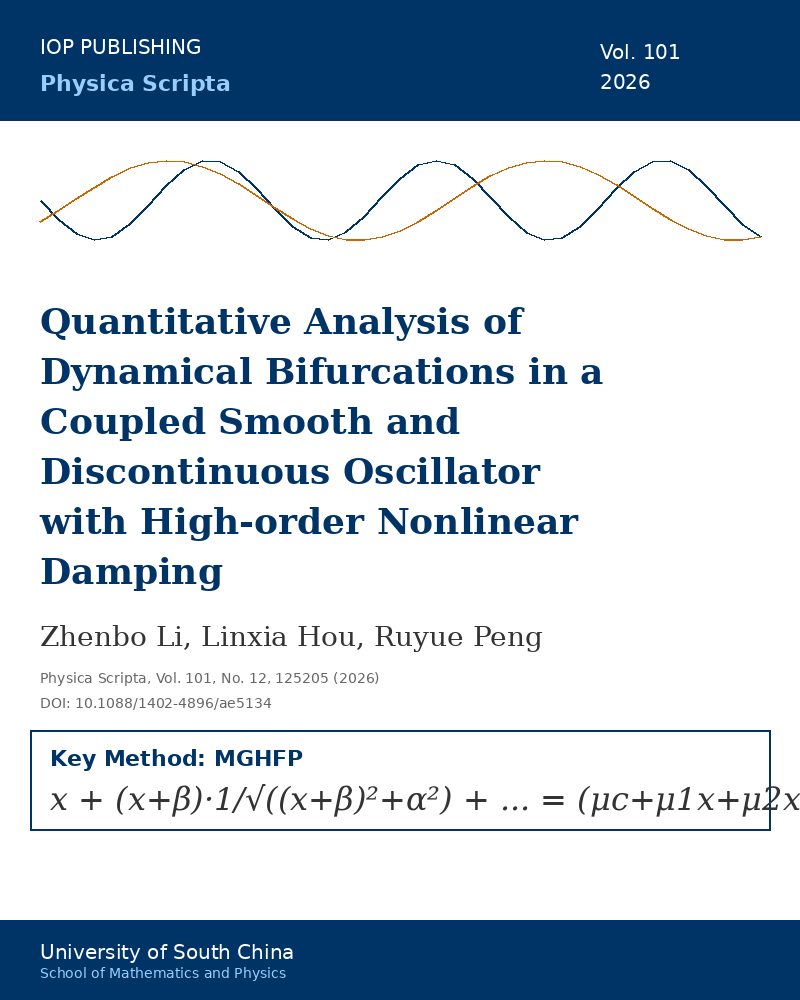
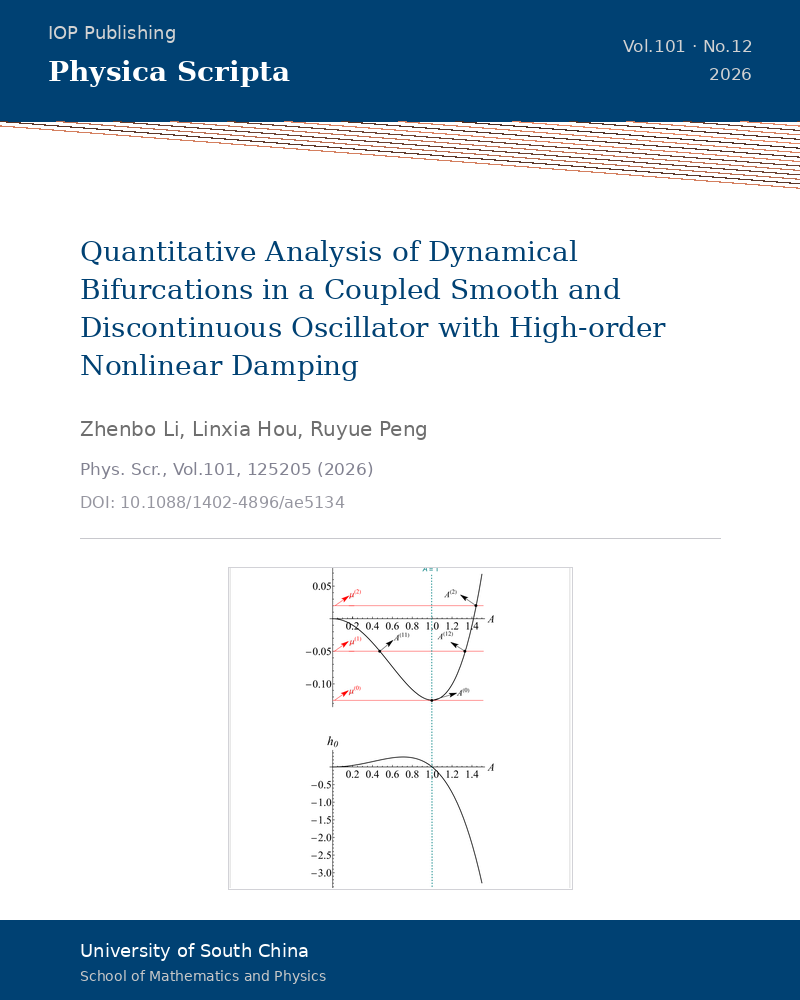
更新前四篇论文封面（gen_front4.py）

diff --git a/gen_front4.py b/gen_front4.py
@@ -1,0 +1,218 @@
+"""
+前四篇封面 v1: 2026/2025/2024/2024 四篇论文封面，基于 gen_back4.py 的 make() 函数
+"""
+from PIL import Image, ImageDraw, ImageFont
+import random, os
+
+W, H = 800, 1000; M = 48; WHITE = (255,255,255)
+OUT = "/sessions/kind-intelligent-fermat/mnt/outputs/front4-covers"
+STRIPE_H = 74
+
+Fn=lambda s,n,**kw:ImageFont.truetype(s,n,**kw)
+F_PUB=Fn("/usr/share/fonts/truetype/dejavu/DejaVuSans.ttf",18)
+F_JRN=Fn("/usr/share/fonts/truetype/dejavu/DejaVuSerif-Bold.ttf",28)
+F_JRN_S=Fn("/usr/share/fonts/truetype/dejavu/DejaVuSerif-Bold.ttf",22)
+F_TITLE=Fn("/usr/share/fonts/truetype/dejavu/DejaVuSerif.ttf",28)
+F_AUTH=Fn("/usr/share/fonts/truetype/dejavu/DejaVuSans.ttf",20)
+F_INFO=Fn("/usr/share/fonts/truetype/dejavu/DejaVuSans.ttf",17)
+F_DOI=Fn("/usr/share/fonts/truetype/dejavu/DejaVuSans.ttf",16)
+F_BOT=Fn("/usr/share/fonts/truetype/dejavu/DejaVuSans.ttf",18)
+F_BOT2=Fn("/usr/share/fonts/truetype/dejavu/DejaVuSans.ttf",14)
+
+ZC="/usr/share/fonts/opentype/noto/NotoSansCJK-Regular.ttc"
+FC_PUB=Fn(ZC,18,index=2); FC_JRN=Fn(ZC,28,index=2); FC_JRN_S=Fn(ZC,22,index=2)
+FC_TITLE=Fn(ZC,28,index=2); FC_AUTH=Fn(ZC,20,index=2); FC_INFO=Fn(ZC,17,index=2)
+FC_DOI=Fn(ZC,16,index=2); FC_BOT=Fn(ZC,18,index=2); FC_BOT2=Fn(ZC,14,index=2)
+
+def tw(d,t,f):
+    try: return int(d.textlength(t,font=f))
+    except: return d.textsize(t,font=f)[0]
+def lt(d,t,x,y,f,c): d.text((x,y),t,font=f,fill=c)
+def rt(d,t,xr,y,f,c):
+    w=tw(d,t,f); d.text((xr-w,y),t,font=f,fill=c)
+
+def pick_font(d,full,abbr,big,sm,max_w):
+    if tw(d,full,big)<=max_w: return full,big
+    if tw(d,abbr,big)<=max_w: return abbr,big
+    return abbr,sm
+
+def wrap(d,t,f,mw):
+    words=t.split(); lines,cur=[],""
+    for w in words:
+        test=cur+(" " if cur else "")+w
+        if tw(d,test,f)<=mw: cur=test
+        else:
+            if cur: lines.append(cur); cur=w
+    if cur: lines.append(cur)
+    return lines or [t]
+
+def auto_crop(img):
+    """裁掉图片四周的白边"""
+    w,h=img.size
+    top,bottom,left,right=0,h-1,0,w-1
+    for y in range(h):
+        for x in range(0, w, 10):
+            p=img.getpixel((x,y))
+            if p!=(255,255,255) and (len(p)<4 or p[3]>128):
+                top=y; break
+        else: continue
+        break
+    for y in range(h-1,-1,-1):
+        for x in range(0, w, 10):
+            p=img.getpixel((x,y))
+            if p!=(255,255,255) and (len(p)<4 or p[3]>128):
+                bottom=y; break
+        else: continue
+        break
+    for x in range(w):
+        for yy in range(top, bottom+1, 10):
+            p=img.getpixel((x,yy))
+            if p!=(255,255,255) and (len(p)<4 or p[3]>128):
+                left=x; break
+        else: continue
+        break
+    for x in range(w-1,-1,-1):
+        for yy in range(top, bottom+1, 10):
+            p=img.getpixel((x,yy))
+            if p!=(255,255,255) and (len(p)<4 or p[3]>128):
+                right=x; break
+        else: continue
+        break
+    pad=5
+    top=max(0,top-pad); bottom=min(h-1,bottom+pad)
+    left=max(0,left-pad); right=min(w-1,right+pad)
+    return img.crop((left,top,right+1,bottom+1))
+
+def draw_stripes(d, brand, accent, seed):
+    rng=random.Random(seed)
+    style=rng.randint(0,3)
+    n=rng.randint(18,30)
+    if style==0: sp,off=rng.randint(25,60),rng.randint(-300,-50)
+    elif style==1: sp,off=rng.randint(45,75),rng.randint(-200,0)
+    elif style==2: sp,off=rng.randint(30,55),rng.randint(-200,-50)
+    else: sp,off=rng.randint(35,65),rng.randint(-250,-80)
+
+    for i in range(n):
+        x0=off+i*sp; x1=x0+950
+        if style==2 and i%4==0:
+            center=rng.randint(300,500)
+            s1=rng.randint(180,230); s2=rng.randint(60,120)
+            for dx in (-1,0,1):
+                d.line([(x0+dx,121),(center,121+STRIPE_H//2)],fill=accent(s1),width=1)
+                d.line([(center,121+STRIPE_H//2),(x1+dx,121+STRIPE_H)],fill=accent(s2),width=1)
+            continue
+        s=rng.randint(180,230) if i%2==0 else rng.randint(50,110)
+        c=accent(s)
+        for dx in (-1,0,1): d.line([(x0+dx,121),(x1+dx,121+STRIPE_H)],fill=c,width=1)
+
+    if style==3:
+        off2=off+rng.randint(300,500)
+        for i in range(n-5):
+            x0=off2+i*sp; x1=x0-950
+            s=rng.randint(100,170); c=accent(s)
+            for dx in (-1,0,1): d.line([(x0+dx,121+STRIPE_H),(x1+dx,121)],fill=c,width=1)
+
+def make(fn, pub, jrn, abbr, vol, yr, title, authors, jline, doi,
+         brand, accent, seed, img_path=None):
+    img=Image.new("RGB",(W,H),WHITE)
+    d=ImageDraw.Draw(img)
+
+    fp,fj,fjs,ft,fa,fi,fdoi,fb,fb2 = \
+        (F_PUB,F_JRN,F_JRN_S,F_TITLE,F_AUTH,F_INFO,F_DOI,F_BOT,F_BOT2)
+
+    d.rectangle([(0,0),(W,121)],fill=brand)
+    g=(210,210,210)
+    lt(d,pub,M,22,fp,g)
+    jd,jf=pick_font(d,jrn,abbr,fj,fjs,W-2*M-160)
+    lt(d,jd,M,54,jf,WHITE)
+    rt(d,vol,W-M,36,fi,g)
+    rt(d,yr,W-M,64,fi,g)
+
+    draw_stripes(d,brand,accent,seed)
+
+    bw=640; x0=(W-bw)//2; y=121+STRIPE_H+40
+    for line in wrap(d,title,ft,bw):
+        lt(d,line,x0,y,ft,brand); y+=ft.size+10
+    y+=30
+    lt(d,authors,x0,y,fa,(110,110,110))
+    y+=42; lt(d,jline,x0,y,fi,(130,130,145))
+    y+=34; lt(d,doi,x0,y,fdoi,(150,150,160))
+    y+=45
+    d.line([(x0,y),(x0+bw,y)],fill=(200,200,205),width=1)
+
+    y+=30
+    if img_path and os.path.exists(img_path):
+        pimg=Image.open(img_path).convert("RGB")
+        pimg=auto_crop(pimg)
+        pw,ph=pimg.size
+        tw_img=min(500,bw)
+        scale=tw_img/pw; th_img=int(ph*scale)
+        if th_img>320: th_img=320; scale=th_img/ph; tw_img=int(pw*scale)
+        pimg=pimg.resize((tw_img,th_img),Image.LANCZOS)
+        px=(W-tw_img)//2
+        d.rectangle([(px-1,y-1),(px+tw_img+1,y+th_img+1)],outline=(210,210,215))
+        img.paste(pimg,(px,y))
+
+    d.rectangle([(0,920),(W,999)],fill=brand)
+    g2=(200,200,200)
+    lt(d,"University of South China",x0,940,fb,WHITE)
+    lt(d,"School of Mathematics and Physics",x0,968,fb2,g2)
+
+    img.save(os.path.join(OUT,fn),"PNG")
+    print(f"  {fn}")
+
+PUB = "/sessions/kind-intelligent-fermat/mnt/个人主页/assets/img/publication_preview"
+
+# ====== P1: li2026quantitative — Physica Scripta 2026 ======
+make("physica-scripta-cover.png",
+    "IOP Publishing", "Physica Scripta", "Phys. Scr.",
+    "Vol.101 · No.12", "2026",
+    "Quantitative Analysis of Dynamical Bifurcations in a Coupled Smooth and Discontinuous Oscillator with High-order Nonlinear Damping",
+    "Zhenbo Li, Linxia Hou, Ruyue Peng",
+    "Phys. Scr., Vol.101, 125205 (2026)",
+    "DOI: 10.1088/1402-4896/ae5134",
+    (0, 65, 115),
+    lambda s: (s, int(s*0.6), int(s*0.45)),
+    2026,
+    f"{PUB}/fig1-amplitude.png")
+
+# ====== P2: li2025global — IJNLM 2025 ======
+make("ijnlm-cover.png",
+    "Elsevier", "International Journal of Non-Linear Mechanics", "Int. J. Non-Linear Mech.",
+    "Vol.178", "2025",
+    "Global Evolution of Limit Cycles and Homoclinic Bifurcation of Smooth and Discontinuous Oscillator with Quartic Nonlinear Damping",
+    "Zhenbo Li, Linxia Hou, Ruyue Peng",
+    "Int. J. Non-Linear Mech., Vol.178, 105185 (2025)",
+    "DOI: 10.1016/j.ijnonlinmec.2025.105185",
+    (5, 35, 75),
+    lambda s: (s, int(s*0.55), int(s*0.35)),
+    2025,
+    f"{PUB}/p2-fig3-amplitude.png")
+
+# ====== P3: li2024modified — IJNLM 2024 ======
+make("ijnlm-cover-p3.png",
+    "Elsevier", "International Journal of Non-Linear Mechanics", "Int. J. Non-Linear Mech.",
+    "Vol.166", "2024",
+    "A Modified Generalized Harmonic Function Perturbation Method and Its Application in Analyzing Generalized Duffing–Harmonic–Rayleigh–Liénard Oscillator",
+    "Zhenbo Li, Jin Cai, Linxia Hou",
+    "Int. J. Non-Linear Mech., Vol.166, 104832 (2024)",
+    "DOI: 10.1016/j.ijnonlinmec.2024.104832",
+    (10, 40, 85),
+    lambda s: (s, int(s*0.6), int(s*0.4)),
+    424,
+    f"{PUB}/p3-fig-p10.png")
+
+# ====== P4: li2024modified2 — Physica Scripta 2024 ======
+make("physica-scripta-cover-p4.png",
+    "IOP Publishing", "Physica Scripta", "Phys. Scr.",
+    "Vol.99 · No.7", "2024",
+    "A Modified Perturbation Method for Global Dynamic Analysis of Generalized Mixed Rayleigh–Liénard Oscillator with Cubic and Quintic Nonlinearities",
+    "Zhenbo Li, Linxia Hou, Yiqing Zhang, Feng Xu",
+    "Phys. Scr., Vol.99, 075213 (2024)",
+    "DOI: 10.1088/1402-4896/ad5066",
+    (0, 70, 120),
+    lambda s: (s, int(s*0.65), int(s*0.5)),
+    724,
+    f"{PUB}/p4-fig3.png")
+
+print("Done! All four front covers generated.")
